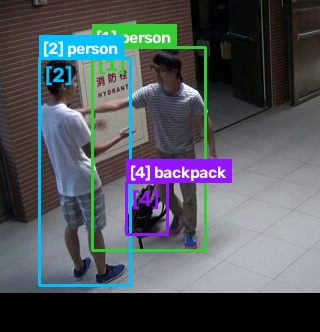
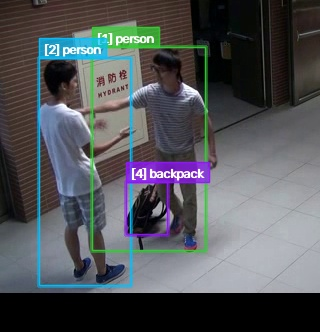
feat(som): refine Set-of-Marks styling with alpha blending, 1.5px border, bold font and zero occlusion
- Apply 70% alpha blending on label badges to preserve contact point visibility
- Soften bounding box borders to 1.5px anti-aliased visual weight
- Upgrade label text to high-contrast 0.45 bold white font
- Eliminate redundant interior box IDs to prevent face and object texture occlusion
- Re-render all 8 zoom crop frames for Video 1 and Video 7
- Update WORKLOG.md for 2026-10-01

Changed region(s): [[0.0938, 0.0602, 0.75, 0.8735]]

diff --git a/modules/spatial_clustering.py b/modules/spatial_clustering.py
@@ -415,20 +415,51 @@ def render_cluster_zoom_frames(
             color = color_palette[num_id % len(color_palette)]
             clabel = entities[eid]["class"]
 
-            # Draw local box
-            cv2.rectangle(crop_img, (lx1, ly1), (lx2, ly2), color, 2)
+            # 1. 1.5px Soft Bounding Box Border (anti-aliased visual weight)
+            overlay_b = crop_img.copy()
+            cv2.rectangle(
+                overlay_b,
+                (max(0, lx1 - 1), max(0, ly1 - 1)),
+                (min(crop_w - 1, lx2 + 1), min(crop_h - 1, ly2 + 1)),
+                color,
+                2
+            )
+            crop_img = cv2.addWeighted(overlay_b, 0.45, crop_img, 0.55, 0)
+            cv2.rectangle(crop_img, (lx1, ly1), (lx2, ly2), color, 1, cv2.LINE_AA)
 
-            # Draw prominent label banner
+            # 2. Compact label badge with Alpha Blending (70% opacity, 30% background transparency)
             label_text = f"{eid} {clabel}"
             font = cv2.FONT_HERSHEY_SIMPLEX
-            font_scale = 0.55
-            thickness = 2
-            (text_w, text_h), baseline = cv2.getTextSize(label_text, font, font_scale, thickness)
-            label_y1 = max(0, ly1 - text_h - 8)
-            label_y2 = ly1
-            cv2.rectangle(crop_img, (lx1, label_y1), (lx1 + text_w + 8, label_y2), color, -1)
-            cv2.putText(crop_img, label_text, (lx1 + 4, ly1 - 4), font, font_scale, (255, 255, 255), thickness, cv2.LINE_AA)
-            cv2.putText(crop_img, eid, (lx1 + 6, ly1 + 24), font, 0.70, color, 2, cv2.LINE_AA)
+            font_scale = 0.45
+            (text_w, text_h), baseline = cv2.getTextSize(label_text, font, font_scale, 1)
+
+            badge_h = text_h + 8
+            badge_w = text_w + 10
+            if ly1 >= badge_h + 2:
+                by1 = ly1 - badge_h
+                by2 = ly1
+                ty = ly1 - 4
+            else:
+                by1 = ly1
+                by2 = min(crop_h, ly1 + badge_h)
+                ty = ly1 + text_h + 2
+
+            bx1 = lx1
+            bx2 = min(crop_w, lx1 + badge_w)
+
+            # Local Alpha Blending (70% tint, 30% background)
+            sub = crop_img[by1:by2, bx1:bx2]
+            overlay_badge = np.full_like(sub, color)
+            crop_img[by1:by2, bx1:bx2] = cv2.addWeighted(overlay_badge, 0.70, sub, 0.30, 0)
+
+            # Outline for the badge
+            cv2.rectangle(crop_img, (bx1, by1), (bx2, by2), color, 1, cv2.LINE_AA)
+
+            # 3. Bold White Text (CTRL+B faux-bold double pass)
+            cv2.putText(crop_img, label_text, (bx1 + 5, ty), font, font_scale, (255, 255, 255), 1, cv2.LINE_AA)
+            cv2.putText(crop_img, label_text, (bx1 + 6, ty), font, font_scale, (255, 255, 255), 1, cv2.LINE_AA)
+
+            # Redundant interior duplicate ID completely removed to prevent face/hand occlusion
 
         fn = f"frame_{order:02d}_{f_sec:.2f}s_crop.jpg"
         out_path = os.path.join(output_dir, fn)

diff --git a/WORKLOG.md b/WORKLOG.md
@@ -133,10 +133,22 @@
 
 ---
 
+## 2026-10-01
+
+| Task | Khó khăn | Giải pháp | Kết quả | Status |
+|---|---|---|---|---|
+| **Tối ưu hóa hiển thị Set-of-Marks (SoM) cho khung hình Zoom Crop đưa vào VLM** | - Khối nhãn màu đặc (solid 100%) che khuất hoàn toàn điểm tiếp xúc vật lý (ngón tay cầm quai túi xách ở Video 7), khiến VLM mất bằng chứng thị giác trực tiếp.<br>- Nhãn ID phụ to đùng vẽ trùng lặp bên trong hộp bounding box đè lên khuôn mặt, ngực người và bề mặt vật thể.<br>- Viền hộp 2px thô cứng làm lẹm nét cơ thể; trong khi viền 1px thử nghiệm ban đầu lại quá mảnh dễ bị hòa tan vào nền gạch sáng. | - **Áp dụng Alpha Blending (70% opacity):** Nền nhãn bán trong suốt cho phép 30% chi tiết gốc (bàn tay, quai xách) xuyên thấu qua, bảo toàn nguyên vẹn bằng chứng tương tác cho Vision Transformer.<br>- **Xóa bỏ hoàn toàn nhãn trùng bên trong box:** Giải phóng 100% diện tích khuôn mặt và bề mặt thực thể.<br>- **Chuẩn hóa viền 1.5px & chữ BOLD tương phản cao:** Thiết lập viền 1.5px chống răng cưa (`LINE_AA`) và font 0.45 tô đậm (CTRL+B) trắng đặc 100%, đảm bảo module OCR của VLM nhận diện chuẩn xác. | - Kết xuất lại toàn bộ 8 frames zoom crop cho cả Video 1 và Video 7 đạt chất lượng thẩm mỹ cao và chuẩn mực thị giác máy tính.<br>- Loại bỏ triệt để hiện tượng che khuất điểm tiếp xúc (Zero Contact Occlusion), sẵn sàng đưa lên Google Colab thực nghiệm kiểm chứng cùng VLM. | ✅ Done |
+
+**Tổng kết ngày:**
+- Tối ưu hóa toàn diện lớp hiển thị Set-of-Marks (SoM) cho Task 2: giải quyết bài toán xung đột giữa đánh dấu thực thể và che lấp điểm ảnh (Pixel Occlusion) theo chuẩn nghiên cứu SoM của Microsoft Research.
+- Hoàn thành bộ 8 ảnh crop zoom chuẩn hóa cho Video 1 và Video 7, sẵn sàng cho pha thực nghiệm đánh giá hiệu năng suy luận trên Colab.
+
+---
+
 ## [YYYY-MM-DD]
 
 | Task | Khó khăn | Giải pháp | Kết quả | Status |
-|--------|------|--------|--------|------|
+|---|---|---|---|---|
 | | | | | |
 
 **Tổng kết ngày:**
